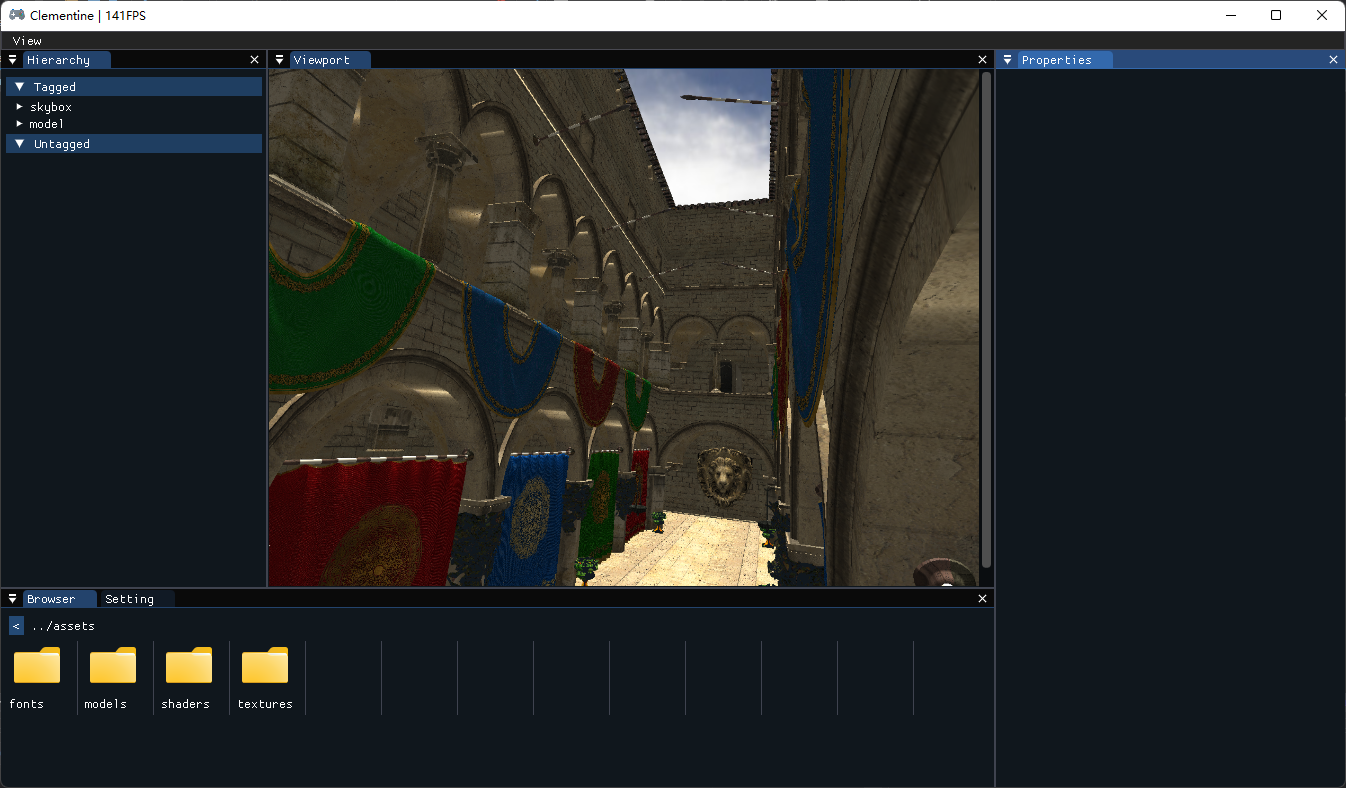
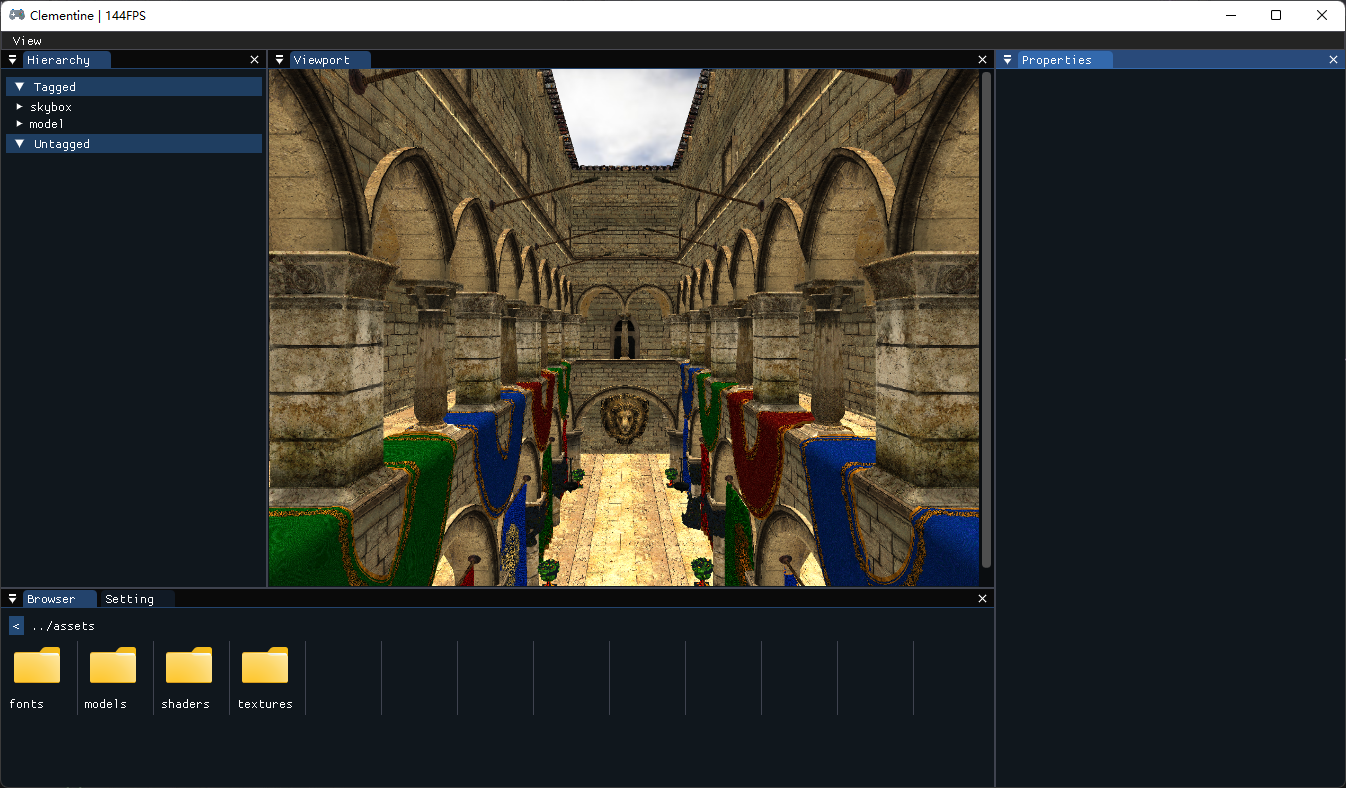
完善光照贴图

Changed region(s): [[0.1872, 0.0609, 0.7489, 0.7614], [0.9985, 0.8832, 1.0, 0.9137]]

diff --git a/Source/Clem/Rendering/OpenGL/GLRenderer.cpp b/Source/Clem/Rendering/OpenGL/GLRenderer.cpp
@@ -64,10 +64,14 @@ void GLRenderer::submit(const Entity& entity)
         {
             if(mats[i].albedo)
                 mats[i].albedo->bindUnit(0);
+            if(mats[i].metallic)
+                mats[i].metallic->bindUnit(1);
+            if(mats[i].emissive)
+                mats[i].emissive->bindUnit(2);
 
-            shader->uploadUniform("u_material.ambient", material.ambient);
-            shader->uploadUniform("u_material.diffuse", material.diffuse);
-            shader->uploadUniform("u_material.specular", material.specular);
+            shader->uploadUniform("u_material.diffuse", 0);
+            shader->uploadUniform("u_material.specular", 1);
+            shader->uploadUniform("u_material.emission", 2);
             shader->uploadUniform("u_material.shininess", material.shininess);
 
             meshs[i].vertexArray->bind();
@@ -79,44 +83,12 @@ void GLRenderer::submit(const Entity& entity)
 
 void GLRenderer::submit(const Entity& entity, std::shared_ptr<Shader> shader)
 {
-    auto& mesh     = entity.get<Mesh>();
-    auto& material = entity.get<Material>();
-
-    if(entity.get<Tag>().str == "skybox")
-        return;
-
-    mesh.bind();
-
-    auto& transform = entity.get<Transform>();
-
-    auto texture = mesh.getTexture(Texture2D::Type::Default);
-    if(texture)
-        texture->bindUnit(0);
-
-    shader->bind();
-    shader->uploadUniform("u_model", transform.getModelMatrix());
-
-    shader->uploadUniform("u_material.ambient", material.ambient);
-    shader->uploadUniform("u_material.diffuse", material.diffuse);
-    shader->uploadUniform("u_material.specular", material.specular);
-    shader->uploadUniform("u_material.shininess", material.shininess);
-
-    shader->uploadUniform("u_entity_id", (int)entity.id());
-
-    glDrawElements(GL_TRIANGLES, (GLsizei)mesh.vertexArray->getIndexBuffer()->count(), GL_UNSIGNED_INT, nullptr);
-
-    assert(glGetError() == GL_NO_ERROR);
+    Assert::isTrue(false);
 }
 
 void GLRenderer::submit(std::shared_ptr<VertexArray> vertexArray, std::shared_ptr<Shader> shader, const Matrix4& transform)
 {
-    static_assert(sizeof(IndexBuffer::value_type) == sizeof(unsigned int));
-
-    vertexArray->bind();
-    shader->bind();
-    shader->uploadUniform("u_model", transform);
-    glDrawElements(GL_TRIANGLES, (GLsizei)vertexArray->getIndexBuffer()->count(), GL_UNSIGNED_INT, nullptr);
-    assert(glGetError() == GL_NO_ERROR);
+    Assert::isTrue(false);
 }
 
 void GLRenderer::setViewport(int x, int y, int w, int h)

diff --git a/Source/Clem/Rendering/Model.cpp b/Source/Clem/Rendering/Model.cpp
@@ -89,7 +89,7 @@ void Model::load(const std::filesystem::path& path)
             if(index.texcoord_index >= 0)
                 vertex.uv = {
                     attrib.texcoords[2 * (size_t)index.texcoord_index + 0],
-                    attrib.texcoords[2 * (size_t)index.texcoord_index + 1]};
+                    1.f - attrib.texcoords[2 * (size_t)index.texcoord_index + 1]};
 
             constexpr bool compress = false;
             if constexpr(compress)
@@ -123,11 +123,16 @@ void Model::load(const std::filesystem::path& path)
             if(mat.bump_texname.size())
                 material.normal = Texture2D::create(path.parent_path() / mat.bump_texname);
 
+            if(mat.metallic_texname.size())
+                material.metallic = Texture2D::create(path.parent_path() / mat.metallic_texname);
+
             if(mat.roughness_texname.size())
                 material.roughness = Texture2D::create(path.parent_path() / mat.roughness_texname);
 
-            if(mat.metallic_texname.size())
-                material.metallic = Texture2D::create(path.parent_path() / mat.metallic_texname);
+            if(mat.emissive_texname.size())
+                material.emissive = Texture2D::create(path.parent_path() / mat.emissive_texname);
+
+            material.shininess = mat.shininess;
         }
 
         auto vertexBuffer    = VertexBuffer::create(vertices);

diff --git a/Source/Clem/Rendering/Material.h b/Source/Clem/Rendering/Material.h
@@ -20,14 +20,8 @@ class Material
     CLEM_DECLARE_TYPE;
 
 public:
-    Material();
-    Material(float ambient, float diffuse, float specular, float shininess, std::shared_ptr<Shader> shader = nullptr);
-    Material(
-        Vector3                 ambient,
-        Vector3                 diffuse,
-        Vector3                 specular,
-        float                   shininess,
-        std::shared_ptr<Shader> shader = nullptr);
+    Material() = default;
+    Material(float shininess, std::shared_ptr<Shader> shader = nullptr);
 
     std::shared_ptr<Texture2D> albedo;
     std::shared_ptr<Texture2D> normal;
@@ -35,15 +29,9 @@ public:
     std::shared_ptr<Texture2D> roughness;
     std::shared_ptr<Texture2D> emissive;
 
-    Vector3 ambient;
-    Vector3 diffuse;
-    Vector3 specular;
-    float   shininess;
+    float shininess = 32.f;
 
     std::shared_ptr<Shader> shader;
-
-    static const Material silver; // 0.19225, 0.50754, 0.508273, 51.2f
-    static const Material chrome; // 0.25,    0.4,     0.774597, 76.8f
 };
 
 CLEM_DEFINE_TYPE(Material);

diff --git a/Source/Clem/Rendering/Material.cpp b/Source/Clem/Rendering/Material.cpp
@@ -8,22 +8,9 @@
 namespace clem
 {
 
-Material::Material()
-{
-    *this = Material::silver;
-}
-
-Material::Material(float ambient, float diffuse, float specular, float shininess, std::shared_ptr<Shader> shader)
-    : Material(Vector3::unit * ambient, Vector3::unit * diffuse, Vector3::unit * specular, shininess, shader)
+Material::Material(float shininess, std::shared_ptr<Shader> shader)
+    : shininess(shininess), shader(shader)
 {
 }
-
-Material::Material(Vector3 ambient, Vector3 diffuse, Vector3 specular, float shininess, std::shared_ptr<Shader> shader)
-    : ambient(ambient), diffuse(diffuse), specular(specular), shininess(shininess), shader(shader)
-{
-}
-
-const Material Material::silver = {0.19225, 0.50754, 0.508273, 51.2f};
-const Material Material::chrome = {0.25, 0.4, 0.774597, 76.8f};
 
 } // namespace clem

diff --git a/Examples/Editor/Editor.cpp b/Examples/Editor/Editor.cpp
@@ -24,9 +24,6 @@ public:
         createPanels();
         createSkybox();
 
-        Mat4 mat;
-        mat *= Mat4::createTranslation({1, -1, 0.5});
-
         auto model = Main::registry.create("model");
         model.add<Transform>().rotation = {0, 90, 0};
         model.add<Material>();
@@ -35,7 +32,9 @@ public:
         // model.add<Model>("../assets/models/weapon/m4a1.obj");
 
         // model.add<Model>("../../../3DModel/scene/Dabrovic_Sponza/sponza.obj");
+
         model.add<Model>("../../../3DModel/scene/Crytek_Sponza/sponza.obj");
+        model.get<Transform>().scale = {0.1, 0.1, 0.1};
 
         // model.add<Model>("../../../3DModel/scene/Amazon_Lumberyard_Bistro/Exterior/exterior.obj");
         // model.add<Model>("../../../3DModel/scene/Amazon_Lumberyard_Bistro/Interior/interior.obj");

diff --git a/Source/Clem/UI/Properties.cpp b/Source/Clem/UI/Properties.cpp
@@ -186,12 +186,10 @@ void Properties::showMaterial()
         {
             auto& material = entity.get<Material>();
 
-            ImGui::Text("Shader: Standard");
-
-            ColorEdit("Ambient", material.ambient);
-            ColorEdit("Diffuse", material.diffuse);
-            ColorEdit("Specular", material.specular);
-            ImGui::Text("Shininess: %.5f", material.shininess);
+            ImGui::Text("Shader   : Standard");
+            ImGui::Text("Albedo   : ");
+            ImGui::Text("Metallic : ");
+            ImGui::Text("Shininess: %.3f", material.shininess);
         }
     }
 }

diff --git a/Source/Clem/UI/Viewport.cpp b/Source/Clem/UI/Viewport.cpp
@@ -173,12 +173,12 @@ void Viewport::updateLight(Time dt)
 
     DirectionLight dirLight;
     dirLight.setColor({255.f / 255.f, 244.f / 255.f, 214.f / 255.f});
-    dirLight.setIntesity(2.f);
+    dirLight.setIntesity(1.f);
     dirLight.setDirection({0, -1, 0});
     dirLights.push_back(dirLight);
 
     PointLight pointLight;
-    pointLight.setIntesity(3.f);
+    pointLight.setIntesity(1.f);
     pointLight.setPosition({0, 5, 0});
     pointLights.push_back(pointLight);
 
